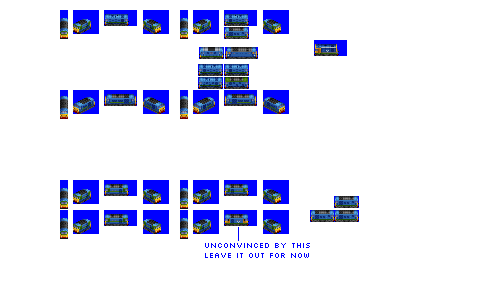
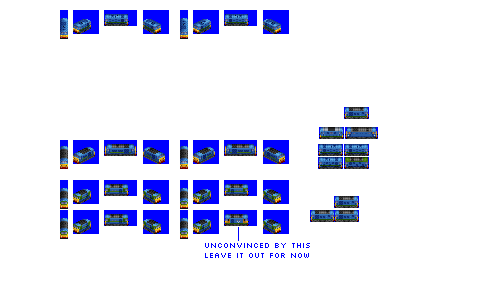
Change: sprites complete for Withershins

diff --git a/src/vehicles/withershins.py b/src/vehicles/withershins.py
@@ -18,14 +18,14 @@ def main(roster_id):
             ("COLOUR_PALE_GREEN", "COLOUR_GREY"),
             ("COLOUR_BLUE", "COLOUR_GREY"),
         ],
-        sprites_complete=False,
+        sprites_complete=True,
     )
 
     consist.add_unit(
-        type=DieselEngineUnit, weight=85, vehicle_length=6, spriterow_num=0, repeat=2
+        type=DieselEngineUnit, weight=82, vehicle_length=6, spriterow_num=0, repeat=2
     )
 
-    consist.description = """."""
+    consist.description = """It's a rat pack. What more do you want?"""
     consist.foamer_facts = """BR Class 24, BR Class 25"""
 
     return consist
